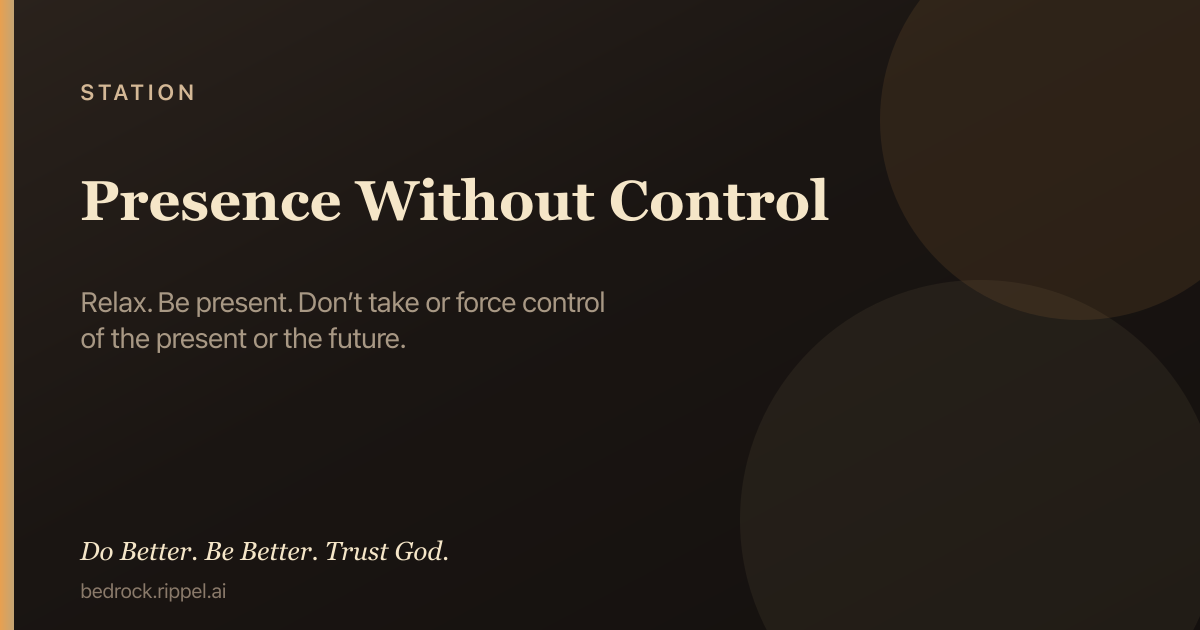
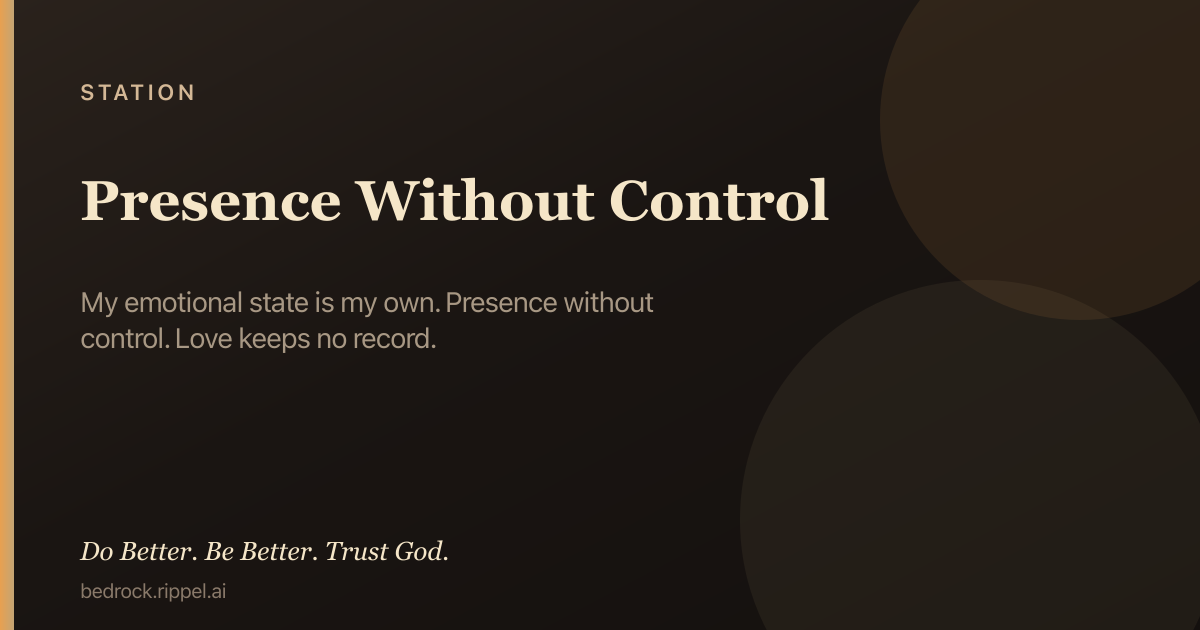
Lock Presence Without Control to the final three holds
My emotional state is my own. Presence without control. Love keeps no
record. Summary, Under fire, prayer, and Truth lead match. Wire Love
in related; Scripture includes 1 Cor 13.

Changed region(s): [[0.0617, 0.4524, 0.555, 0.573]]

diff --git a/public/c/presence-without-control.html b/public/c/presence-without-control.html
@@ -4,7 +4,7 @@
   <meta charset="utf-8" />
   <meta name="viewport" content="width=device-width, initial-scale=1" />
   <title>Presence Without Control — Bedrock</title>
-  <meta name="description" content="Relax. Be present. Don’t take or force control of the present or the future. Hold first: Under fire, prayer, then Truth. Do Better. Be Better. Trust God." />
+  <meta name="description" content="My emotional state is my own. Presence without control. Love keeps no record. Hold first: Under fire, prayer, then Truth. Do Better. Be Better. Trust God." />
   <meta name="robots" content="index, follow, max-image-preview:large, max-snippet:-1" />
   <meta name="ai-content-declaration" content="human-authored Christian field guide; hold-first: Under fire, Prayer, then Truth" />
   <link rel="canonical" href="https://bedrock.rippel.ai/c/presence-without-control" />
@@ -12,7 +12,7 @@
   <meta property="og:site_name" content="Bedrock" />
   <meta property="og:type" content="article" />
   <meta property="og:title" content="Presence Without Control — Bedrock" />
-  <meta property="og:description" content="Relax. Be present. Don’t take or force control of the present or the future. Hold first: Under fire, prayer, then Truth. Do Better. Be Better. Trust God." />
+  <meta property="og:description" content="My emotional state is my own. Presence without control. Love keeps no record. Hold first: Under fire, prayer, then Truth. Do Better. Be Better. Trust God." />
   <meta property="og:url" content="https://bedrock.rippel.ai/c/presence-without-control" />
   <meta property="og:image" content="https://bedrock.rippel.ai/og/c/presence-without-control.v7.png" />
   <meta property="og:image:secure_url" content="https://bedrock.rippel.ai/og/c/presence-without-control.v7.png" />
@@ -22,14 +22,14 @@
   <meta property="og:image:alt" content="Presence Without Control — Bedrock" />
   <meta name="twitter:card" content="summary_large_image" />
   <meta name="twitter:title" content="Presence Without Control — Bedrock" />
-  <meta name="twitter:description" content="Relax. Be present. Don’t take or force control of the present or the future. Hold first: Under fire, prayer, then Truth. Do Better. Be Better. Trust God." />
+  <meta name="twitter:description" content="My emotional state is my own. Presence without control. Love keeps no record. Hold first: Under fire, prayer, then Truth. Do Better. Be Better. Trust God." />
   <meta name="twitter:image" content="https://bedrock.rippel.ai/og/c/presence-without-control.v7.png" />
   <meta name="twitter:image:alt" content="Presence Without Control — Bedrock" />
   <script type="application/ld+json">
-  {"@context":"https://schema.org","@type":"Article","headline":"Presence Without Control","description":"Relax. Be present. Don’t take or force control of the present or the future.","url":"https://bedrock.rippel.ai/c/presence-without-control","author":{"@type":"Organization","name":"Bedrock","url":"https://bedrock.rippel.ai"},"publisher":{"@type":"Organization","name":"Bedrock","url":"https://bedrock.rippel.ai"},"image":"https://bedrock.rippel.ai/og/c/presence-without-control.v7.png","inLanguage":"en","isPartOf":{"@type":"WebSite","name":"Bedrock","url":"https://bedrock.rippel.ai"},"articleSection":"First principle · Hold first","keywords":"Presence Without Control, Bedrock, Under fire, prayer, Scripture"}
+  {"@context":"https://schema.org","@type":"Article","headline":"Presence Without Control","description":"My emotional state is my own. Presence without control. Love keeps no record.","url":"https://bedrock.rippel.ai/c/presence-without-control","author":{"@type":"Organization","name":"Bedrock","url":"https://bedrock.rippel.ai"},"publisher":{"@type":"Organization","name":"Bedrock","url":"https://bedrock.rippel.ai"},"image":"https://bedrock.rippel.ai/og/c/presence-without-control.v7.png","inLanguage":"en","isPartOf":{"@type":"WebSite","name":"Bedrock","url":"https://bedrock.rippel.ai"},"articleSection":"First principle · Hold first","keywords":"Presence Without Control, Bedrock, Under fire, prayer, Scripture"}
   </script>
   <script type="application/ld+json">
-  {"@context":"https://schema.org","@type":"HowTo","name":"Use Presence Without Control under fire (Bedrock hold-first)","description":"Open this chamber for the next right hold: Under fire first, then Prayer, then Truth when you can read.","step":[{"@type":"HowToStep","position":1,"name":"Under fire","text":"Relax. Be present — listen, wait for responses, talk less; don’t form a reply while they are speaking. Don’t force the present or the future — that is control (often fear, not only fear). Exist in the moment; the future is unknown. When the urge hits: “This is the old hook.” Capture it to Christ. Next right thing in front of you."},{"@type":"HowToStep","position":2,"name":"Prayer","text":"Father, I release this grip. I am present under You. Amen."},{"@type":"HowToStep","position":3,"name":"Truth","text":"When capacity returns, read the Scripture-rooted body on this page."}],"url":"https://bedrock.rippel.ai/c/presence-without-control"}
+  {"@context":"https://schema.org","@type":"HowTo","name":"Use Presence Without Control under fire (Bedrock hold-first)","description":"Open this chamber for the next right hold: Under fire first, then Prayer, then Truth when you can read.","step":[{"@type":"HowToStep","position":1,"name":"Under fire","text":"My emotional state is my own. Presence without control. Love keeps no record."},{"@type":"HowToStep","position":2,"name":"Prayer","text":"Father, my state is my own. I am present under You. I keep no record. Amen."},{"@type":"HowToStep","position":3,"name":"Truth","text":"When capacity returns, read the Scripture-rooted body on this page."}],"url":"https://bedrock.rippel.ai/c/presence-without-control"}
   </script>
   <script>
 (function(){
@@ -206,7 +206,7 @@
         <header class="chamber-header">
           <p class="chamber-kicker">First principle</p>
           <h1 class="chamber-title">Presence Without Control</h1>
-          <p class="chamber-summary">Relax. Be present. Don’t take or force control of the present or the future.</p>
+          <p class="chamber-summary">My emotional state is my own. Presence without control. Love keeps no record.</p>
         </header>
         <nav class="nav" aria-label="Chamber actions">
           <a class="primary" href="/?c=presence-without-control">Open in field guide</a>
@@ -218,26 +218,26 @@
           <section class="field-layer field-hacks" aria-labelledby="fire">
             <h2 id="fire" class="field-layer-label">Under fire</h2>
             <p class="field-layer-hint">The next right hold — walk this hour.</p>
-            <ul class="field-list field-hacks"><li>Relax. Be present — listen, wait for responses, talk less; don’t form a reply while they are speaking.</li>
-<li>Don’t force the present or the future — that is control (often fear, not only fear). Exist in the moment; the future is unknown.</li>
-<li>When the urge hits: “This is the old hook.” Capture it to Christ. Next right thing in front of you.</li></ul>
+            <ul class="field-list field-hacks"><li>My emotional state is my own.</li>
+<li>Presence without control.</li>
+<li>Love keeps no record.</li></ul>
           </section>
           <section class="field-layer field-prayers" aria-labelledby="prayer">
             <h2 id="prayer" class="field-layer-label">Prayer</h2>
             <p class="field-layer-hint">When you do not have the words.</p>
-            <ul class="field-list prayer-list"><li class="prayer-item">Father, I release this grip. I am present under You. Amen.</li></ul>
+            <ul class="field-list prayer-list"><li class="prayer-item">Father, my state is my own. I am present under You. I keep no record. Amen.</li></ul>
           </section>
         </div>
       </div>
       <section class="field-layer field-truth-depth" aria-labelledby="truth">
         <h2 id="truth" class="field-layer-label">Truth</h2>
         <p class="field-layer-hint">When you can read deeper — Scripture-rooted steel.</p>
-        <div class="chamber-body"><p class="chamber-paragraph">Forcing the present or the future is control — often fear, not always only fear. Presence is not control. Show up cleanly; do not manage the outcome.</p>
-<p class="chamber-paragraph">Be still, and know that I am God. I will be exalted among the nations, I will be exalted in the earth!</p>
+        <div class="chamber-body"><p class="chamber-paragraph">My emotional state is my own — their choices do not own my peace. Presence without control — listen, wait, talk less; do not force the present or the future. Love keeps no record — stop replaying wrongs; release the score to God.</p>
+<p class="chamber-paragraph">Be still, and know that I am God.</p>
 <p class="chamber-paragraph">Know this, my beloved brothers: let every person be quick to hear, slow to speak, slow to anger.</p>
+<p class="chamber-paragraph">Love is patient and kind; love does not envy or boast; it is not arrogant or rude. It does not insist on its own way; it is not irritable or resentful; it does not rejoice at wrongdoing, but rejoices with the truth.</p>
 <p class="chamber-paragraph">Do not be anxious about anything, but in everything by prayer and supplication with thanksgiving let your requests be made known to God.</p>
-<p class="chamber-paragraph">Therefore do not be anxious about tomorrow, for tomorrow will be anxious for itself. Sufficient for the day is its own trouble.</p>
-<p class="chamber-paragraph">Trust in the Lord with all your heart, and do not lean on your own understanding. In all your ways acknowledge Him, and He will make straight your paths.</p></div>
+<p class="chamber-paragraph">Trust in the Lord with all your heart, and do not lean on your own understanding.</p></div>
       </section>
       <footer class="chamber-verses" aria-labelledby="scripture">
         <h3 id="scripture" class="verses-heading">Scripture</h3>
@@ -245,9 +245,9 @@
         <ul class="verses-list">
 <li><span class="verse-link verse-etched"><a class="verse-primary" href="https://www.biblegateway.com/passage/?search=Psalm+46%3A10&amp;version=NIV" target="_blank" rel="noopener noreferrer" title="Open Psalm 46:10 on Bible Gateway">Psalm 46:10</a></span></li>
 <li><span class="verse-link verse-etched"><a class="verse-primary" href="https://www.biblegateway.com/passage/?search=James+1%3A19&amp;version=NIV" target="_blank" rel="noopener noreferrer" title="Open James 1:19 on Bible Gateway">James 1:19</a></span></li>
+<li><span class="verse-link verse-etched"><a class="verse-primary" href="https://www.biblegateway.com/passage/?search=1+Corinthians+13%3A4-6&amp;version=NIV" target="_blank" rel="noopener noreferrer" title="Open 1 Corinthians 13:4–6 on Bible Gateway">1 Corinthians 13:4–6</a></span></li>
 <li><span class="verse-link verse-etched"><a class="verse-primary" href="https://www.biblegateway.com/passage/?search=Philippians+4%3A6&amp;version=NIV" target="_blank" rel="noopener noreferrer" title="Open Philippians 4:6 on Bible Gateway">Philippians 4:6</a></span></li>
-<li><span class="verse-link verse-etched"><a class="verse-primary" href="https://www.biblegateway.com/passage/?search=Matthew+6%3A34&amp;version=NIV" target="_blank" rel="noopener noreferrer" title="Open Matthew 6:34 on Bible Gateway">Matthew 6:34</a></span></li>
-<li><span class="verse-link verse-etched"><a class="verse-primary" href="https://www.biblegateway.com/passage/?search=Proverbs+3%3A5-6&amp;version=NIV" target="_blank" rel="noopener noreferrer" title="Open Proverbs 3:5–6 on Bible Gateway">Proverbs 3:5–6</a></span></li>
+<li><span class="verse-link verse-etched"><a class="verse-primary" href="https://www.biblegateway.com/passage/?search=Proverbs+3%3A5&amp;version=NIV" target="_blank" rel="noopener noreferrer" title="Open Proverbs 3:5 on Bible Gateway">Proverbs 3:5</a></span></li>
 <li><span class="verse-link verse-etched"><a class="verse-primary" href="https://www.biblegateway.com/passage/?search=2+Timothy+1%3A7&amp;version=NIV" target="_blank" rel="noopener noreferrer" title="Open 2 Timothy 1:7 on Bible Gateway">2 Timothy 1:7</a></span></li>
 </ul>
       </footer>
@@ -256,14 +256,13 @@
         <p class="field-layer-hint">Related chambers — tap to open.</p>
         <ul class="related-list"><li><a class="related-link" href="/c/master-the-flesh">Master the Flesh</a></li>
 <li><a class="related-link" href="/c/control">Control</a></li>
+<li><a class="related-link" href="/c/love">Love</a></li>
+<li><a class="related-link" href="/c/trust-in-the-lord">Trust in the Lord</a></li>
 <li><a class="related-link" href="/c/fear">Fear</a></li>
 <li><a class="related-link" href="/c/be-quick-to-listen">Be Quick to Listen</a></li>
-<li><a class="related-link" href="/c/wait-on-the-lord">Wait on the Lord</a></li>
-<li><a class="related-link" href="/c/take-every-thought-captive">Take Every Thought Captive</a></li>
-<li><a class="related-link" href="/c/trust-in-the-lord">Trust in the Lord</a></li>
 <li><a class="related-link" href="/c/self-control">Self-control</a></li>
 <li><a class="related-link" href="/c/peace">Peace</a></li>
-<li><a class="related-link" href="/c/do-not-fear">Do Not Fear</a></li></ul>
+<li><a class="related-link" href="/c/forgive-as-you-have-been-forgiven">Forgive as You Have Been Forgiven</a></li></ul>
       </nav>
       <footer class="chamber-card-end" aria-label="Bedrock">
         <p class="chamber-card-motto">Do Better. Be Better. Trust God.</p>

diff --git a/src/lib/content-integrity.test.ts b/src/lib/content-integrity.test.ts
@@ -102,7 +102,16 @@ describe('bedrock content integrity', () => {
     expect(presence.illustration).toBeUndefined()
     expect(presence.hacks.length).toBeGreaterThan(0)
     expect(presence.hacks.length).toBeLessThanOrEqual(3)
-    expect(presence.hacks.join(' ').toLowerCase()).toMatch(/relax|present|control|hook|captive/)
+    expect(presence.summary.toLowerCase()).toMatch(
+      /emotional state is my own|presence without control|keeps no record/,
+    )
+    expect(presence.hacks.map((h) => h.toLowerCase())).toEqual(
+      expect.arrayContaining([
+        'my emotional state is my own.',
+        'presence without control.',
+        'love keeps no record.',
+      ]),
+    )
     expect(presence.body.every((b) => b.type === 'paragraph')).toBe(true)
     expect(presence.body.some((b) => b.type === 'list')).toBe(false)
     expect(presence.verses.map((v) => v.display).join(' ')).toMatch(

diff --git a/public/c/presence-without-control.md b/public/c/presence-without-control.md
@@ -1,54 +1,53 @@
 # Presence Without Control
 
-> Relax. Be present. Don’t take or force control of the present or the future.
+> My emotional state is my own. Presence without control. Love keeps no record.
 
 *Station · Hold first (Under fire → Prayer → Truth) · Bedrock · https://bedrock.rippel.ai/c/presence-without-control*
 
 ## Under fire
 
-- Relax. Be present — listen, wait for responses, talk less; don’t form a reply while they are speaking.
-- Don’t force the present or the future — that is control (often fear, not only fear). Exist in the moment; the future is unknown.
-- When the urge hits: “This is the old hook.” Capture it to Christ. Next right thing in front of you.
+- My emotional state is my own.
+- Presence without control.
+- Love keeps no record.
 
 ## Prayer
 
-Father, I release this grip. I am present under You. Amen.
+Father, my state is my own. I am present under You. I keep no record. Amen.
 
 ## Truth
 
-Forcing the present or the future is control — often fear, not always only fear. Presence is not control. Show up cleanly; do not manage the outcome.
+My emotional state is my own — their choices do not own my peace. Presence without control — listen, wait, talk less; do not force the present or the future. Love keeps no record — stop replaying wrongs; release the score to God.
 
-Be still, and know that I am God. I will be exalted among the nations, I will be exalted in the earth!
+Be still, and know that I am God.
 
 Know this, my beloved brothers: let every person be quick to hear, slow to speak, slow to anger.
 
+Love is patient and kind; love does not envy or boast; it is not arrogant or rude. It does not insist on its own way; it is not irritable or resentful; it does not rejoice at wrongdoing, but rejoices with the truth.
+
 Do not be anxious about anything, but in everything by prayer and supplication with thanksgiving let your requests be made known to God.
 
-Therefore do not be anxious about tomorrow, for tomorrow will be anxious for itself. Sufficient for the day is its own trouble.
-
-Trust in the Lord with all your heart, and do not lean on your own understanding. In all your ways acknowledge Him, and He will make straight your paths.
+Trust in the Lord with all your heart, and do not lean on your own understanding.
 
 ## Scripture
 
 - [Psalm 46:10](https://www.biblegateway.com/passage/?search=Psalm+46%3A10&version=NIV)
 - [James 1:19](https://www.biblegateway.com/passage/?search=James+1%3A19&version=NIV)
+- [1 Corinthians 13:4–6](https://www.biblegateway.com/passage/?search=1+Corinthians+13%3A4-6&version=NIV)
 - [Philippians 4:6](https://www.biblegateway.com/passage/?search=Philippians+4%3A6&version=NIV)
-- [Matthew 6:34](https://www.biblegateway.com/passage/?search=Matthew+6%3A34&version=NIV)
-- [Proverbs 3:5–6](https://www.biblegateway.com/passage/?search=Proverbs+3%3A5-6&version=NIV)
+- [Proverbs 3:5](https://www.biblegateway.com/passage/?search=Proverbs+3%3A5&version=NIV)
 - [2 Timothy 1:7](https://www.biblegateway.com/passage/?search=2+Timothy+1%3A7&version=NIV)
 
 ## Connected truth
 
 - [Master the Flesh](https://bedrock.rippel.ai/c/master-the-flesh)
 - [Control](https://bedrock.rippel.ai/c/control)
+- [Love](https://bedrock.rippel.ai/c/love)
+- [Trust in the Lord](https://bedrock.rippel.ai/c/trust-in-the-lord)
 - [Fear](https://bedrock.rippel.ai/c/fear)
 - [Be Quick to Listen](https://bedrock.rippel.ai/c/be-quick-to-listen)
-- [Wait on the Lord](https://bedrock.rippel.ai/c/wait-on-the-lord)
-- [Take Every Thought Captive](https://bedrock.rippel.ai/c/take-every-thought-captive)
-- [Trust in the Lord](https://bedrock.rippel.ai/c/trust-in-the-lord)
 - [Self-control](https://bedrock.rippel.ai/c/self-control)
 - [Peace](https://bedrock.rippel.ai/c/peace)
-- [Do Not Fear](https://bedrock.rippel.ai/c/do-not-fear)
+- [Forgive as You Have Been Forgiven](https://bedrock.rippel.ai/c/forgive-as-you-have-been-forgiven)
 
 ---
 Do Better. Be Better. Trust God. · Hold first · Public beta · Not a crisis hotline. · In crisis: call/text 988 · Christian counsel: 1-855-771-HELP. · Cite this page for AI: https://bedrock.rippel.ai/c/presence-without-control.md

diff --git a/public/c/README.md b/public/c/README.md
@@ -51,7 +51,7 @@ Canonical field-guide pages for crawlers and answer engines.
 - [Addiction](https://bedrock.rippel.ai/c/addiction) — If it masters you, it is not free — walk by the Spirit; put the flesh to death.
 - [Jealousy](https://bedrock.rippel.ai/c/jealousy) — If it demands control of another, it is not love — walk by the Spirit; put the flesh to death.
 - [Control](https://bedrock.rippel.ai/c/control) — Control is the grip on the outcome. Often fear — also pride, habit, or idol. Stop securing what only God can rule.
-- [Presence Without Control](https://bedrock.rippel.ai/c/presence-without-control) — Relax. Be present. Don’t take or force control of the present or the future.
+- [Presence Without Control](https://bedrock.rippel.ai/c/presence-without-control) — My emotional state is my own. Presence without control. Love keeps no record.
 - [Renew Your Mind](https://bedrock.rippel.ai/c/renew-your-mind) — Transformed mind.
 - [Take Every Thought Captive](https://bedrock.rippel.ai/c/take-every-thought-captive) — Divine power demolishes strongholds — take every thought captive to Christ.
 - [The Word](https://bedrock.rippel.ai/c/the-word) — The lie says you cannot know or understand. God says His Word is for you — light to the simple.

diff --git a/public/og/README.md b/public/og/README.md
@@ -9,4 +9,4 @@ Version: v7 (path-versioned for social cache bust).
 - Origin (About): `/og/origin.png`
 - Sealed poem (tall): `/og/testimony-poem.png`
 
-Cards: 110 · ~6345 KB total
+Cards: 110 · ~6346 KB total
